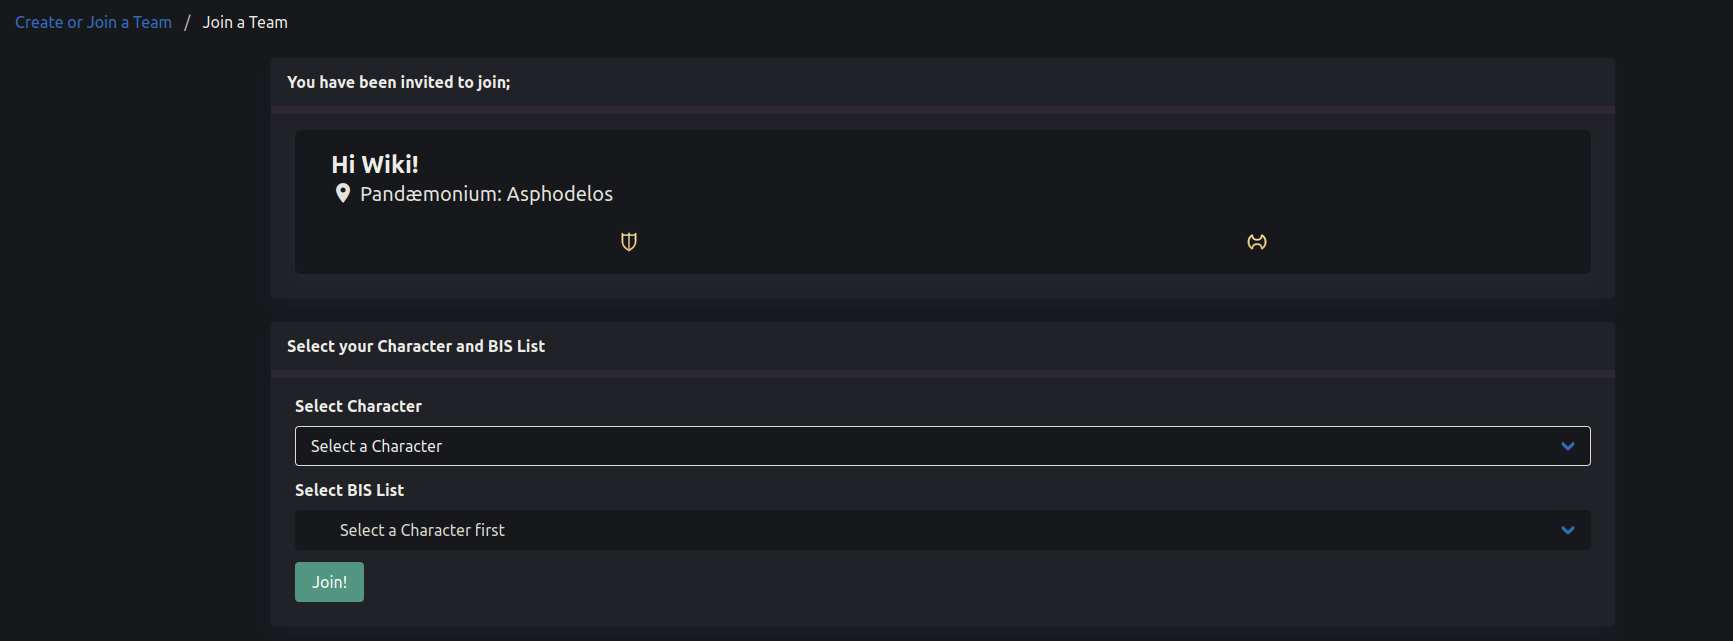
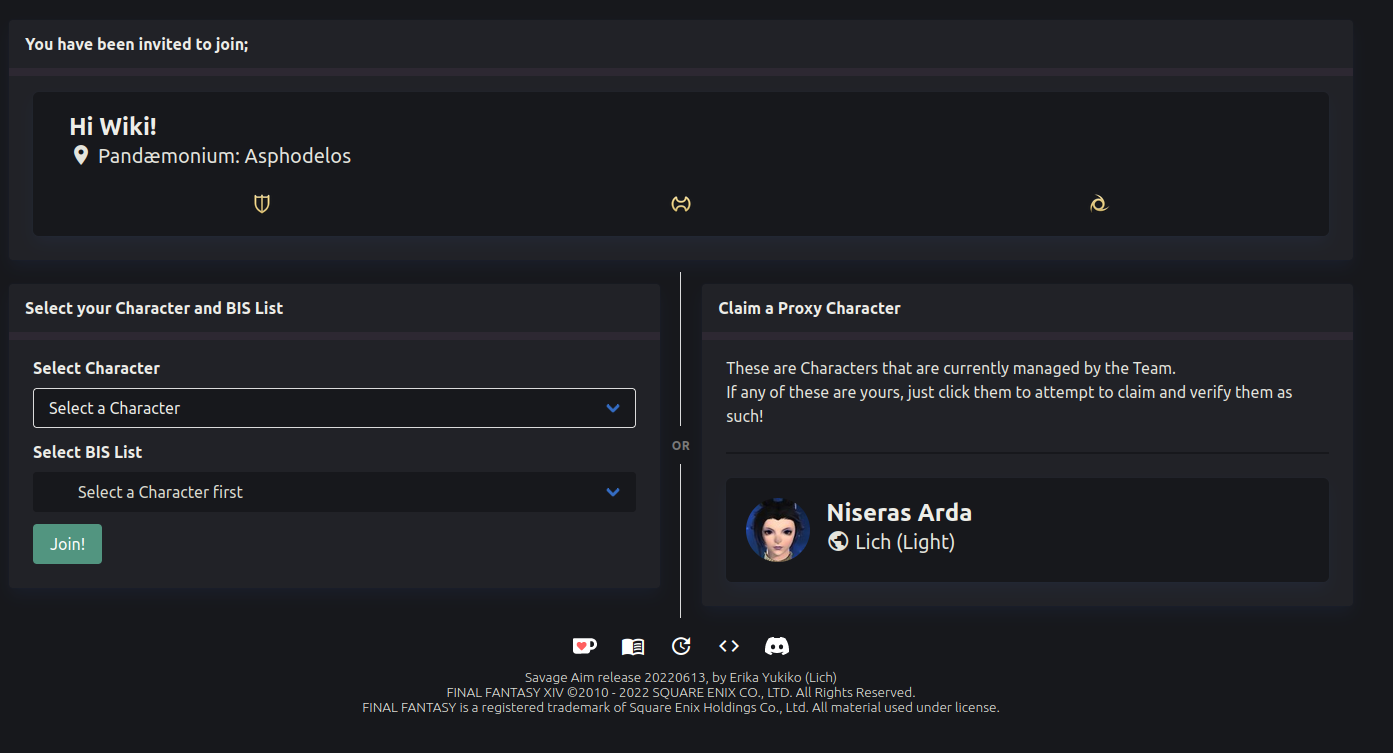
GitBook: [#28] Proxy Characters

diff --git a/teams/proxy-characters.md b/teams/proxy-characters.md
@@ -1,0 +1,61 @@
+---
+description: Characters owned by a Team instead of a User
+---
+
+# Proxy Characters
+
+For the most part, these Characters are equivalent to the Characters made / managed by regular Users of the site. However, these are instead managed by the Team Leader, which allows Leaders to have all of their Members represented without requiring everyone to sign up to Savage Aim.
+
+## Adding Proxy Characters
+
+A Team Leader when viewing the Team Details page will see the following image, with a green "Add Proxy Character" button.
+
+![](<../.gitbook/assets/image (5).png>)
+
+Clicking on this button will take them to a page that looks like this;
+
+![](<../.gitbook/assets/image (24).png>)
+
+To begin to add a Proxy Character, first you must obtain the Lodestone URL for the Character, similar to when adding a new Character to your own account. When the URL has been added and imported, a BIS List form will display underneath and the form will change appearance, like so;
+
+![](<../.gitbook/assets/image (12).png>)
+
+The BIS List form is almost the exact same as the normal one available to Characters, with some minor changes. Proxy BIS Lists cannot be given names, and all buttons related to Syncing have been removed.
+
+To change the Character, you can click the red "Reset" button which will change the box back into the form.
+
+To save the Proxy Character, click the green "Create" button under the Character when you've filled in all this BIS Details.
+
+## Updating Proxy Characters
+
+![](<../.gitbook/assets/image (17).png>)
+
+When added to the Team, Proxy Characters will have a red AFK chair next to their names in desktop versions of the Team Details page. For the Team Leader, there will also be an "Edit Proxy" option in their "Actions" dropdown, which will take them to the same page as shown above, only the ability to reset the Character is no longer present.
+
+To remove a Proxy Character from the Team, simply kick them.&#x20;
+
+## Verifying and Claiming Proxy Characters
+
+If, at a later point in time, the owner of a Proxy Character signs up to the website, they will still be able to claim and verify the Character as their own.&#x20;
+
+Whenever a Proxy Character is claimed, the Team Leader will receive a Notification informing them that it has occurred.
+
+### Importing and Verifying like normal
+
+If a User goes through the process outlined in [importing-characters.md](../characters/importing-characters.md "mention") to add and verify a Character that they own, then all proxies of that Character will be merged into the new verified version of the Character.
+
+The User will immediately have access to any Teams the Character was proxied in, and will have all BIS Lists that any Teams were maintaining for them.&#x20;
+
+{% hint style="info" %}
+Each BIS List will be given the name of the Team that created it when merged into the account, so even if there are multiple lists with the same Job, it will be obvious which one is which.
+{% endhint %}
+
+### Claiming Characters via Team Join
+
+![](<../.gitbook/assets/image (8).png>)
+
+A slight alternative to streamline the process a little is the option to attempt a claim via the [join-a-team.md](join-a-team.md "mention") pages.
+
+Clicking on one of the Proxy Character boxes on the right will take you to a copy of the Character for you to verify. When a Character is verified, it will merge in all Proxy versions, which means you will join the specified Team as well!
+
+This means new Users to the site can gain control of their Character in a slightly easier way than having to handle it from outside the Team pages.

diff --git a/teams/team-details.md b/teams/team-details.md
@@ -18,6 +18,8 @@ At the top of the page are blue buttons, which link to [loot-tracker.md](loot-tr
 Please note that the settings link will only appear if you are the current Team Leader.
 {% endhint %}
 
+Just above the Team Cards is a button to allow you to add [proxy-characters.md](proxy-characters.md "mention")to the Team.
+
 ## Character Cards
 
 Each Character has a card with all of their details. In this section, all of the card's components will be broken down and explained.
@@ -30,11 +32,15 @@ The Characters are sorted by their Jobs, in the same order as FFXIV uses to list
 
 ![](<../.gitbook/assets/image (16) (1) (1).png>)
 
+![](<../.gitbook/assets/image (10).png>)
+
 The heading of the cards gives us a lot of information. On mobile a lot of the extraneous info is stripped out to maintain clarity however.
 
-#### Team Leader / Member Icons
+#### Team Leader / Member / Proxy Icons
 
 On the far left side of the header, you can see icons taken from XIV. The P with an L beneath it indicates the Team Leader, and all other Team Members will just have the P icon with no L.
+
+Proxy Characters are instead represented by the AFK red chair icon.
 
 #### Character Name & World / Alias
 
@@ -98,7 +104,7 @@ This option appears only on the card of your own Characters. It will take you to
 
 #### Leave Team / Kick from Team
 
-![](<../.gitbook/assets/image (17).png>)![](<../.gitbook/assets/image (13) (1).png>)
+![](<../.gitbook/assets/image (17) (2).png>)![](<../.gitbook/assets/image (13) (1).png>)
 
 Any Character has the option to leave a Team, and the Leader of the Team has the option to kick any other Member from it. Both of these will lead to a confirmation modal and, if confirmed, will notify the appropriate Users.
 

diff --git a/characters/character-details.md b/characters/character-details.md
@@ -16,7 +16,7 @@ At the bottom is a button to request the deletion of the Character.
 
 ### Deletion
 
-![](<../.gitbook/assets/image (8) (1).png>)
+![](<../.gitbook/assets/image (8) (1) (2).png>)
 
 Due to all the information being linked to the Character entry, deletion of Characters provides a detailed prompt like shown.
 
@@ -55,7 +55,7 @@ To edit an existing BIS List, click the "Edit" link at the bottom of the corresp
 
 ### Deletion
 
-![](<../.gitbook/assets/image (18).png>)![](<../.gitbook/assets/image (5).png>)
+![](<../.gitbook/assets/image (18).png>)![](<../.gitbook/assets/image (5) (2).png>)
 
 Deleting a BIS List will permanently remove it from the Character. To Delete a BIS List simply click the "Delete" button below the card. Clicking this button will cause a popup like the above images to appear.
 
@@ -81,7 +81,7 @@ On mobile, only the name of the Team and its Tier are displayed.
 
 ## Settings
 
-![](<../.gitbook/assets/image (24).png>)
+![](<../.gitbook/assets/image (24) (2).png>)
 
 Characters now have aliases, which is a name you can specify yourself to refer to the Character separately. The settings tab allows you to change your aliases.
 

diff --git a/notifications.md b/notifications.md
@@ -73,6 +73,18 @@ Whenever a Character leaves a Team that you Lead, you will receive a Notificatio
 
 Clicking a Notification of this type will take you to the Team's page.
 
+### team\_proxy\_claim
+
+Whenever a Proxy Character is claimed by a user, you will receive a Notification to inform you.
+
+Clicking a Notification of this type will take you to the Team's page.
+
+### team\_rename
+
+Whenever a Team you are in is renamed, you will receive a Notification to inform you.
+
+Clicking a Notification of this type will take you to the Team's page.
+
 ### verify\_fail
 
 If the verification process fails for one of your Characters, you will receive this Notification with information on why it failed.

diff --git a/teams/join-a-team.md b/teams/join-a-team.md
@@ -26,7 +26,7 @@ Insert the code you were given in the box below, and click the "Join" button. If
 
 Once you have arrived on a page like this, either by following the code step above or by following your given **invite link**, you will be able to join the Team.
 
-![](<../.gitbook/assets/image (8).png>)
+![](<../.gitbook/assets/image (8) (1).png>)
 
 The box above shows the current details of the Team you are joining. You can see the name and tier and, if you're on a large screen device, you can also see the icons of the Jobs that the Characters already in the Team are playing. The names of the Characters on each Job are available by hovering over them.
 

diff --git a/characters/importing-characters.md b/characters/importing-characters.md
@@ -46,6 +46,6 @@ Then click Confirm, and on the next page, click Confirm again. Once your Charact
 
 After a few seconds, refresh the page and if the verification was successful you should see the amber message has been replaced with a page that looks like this;
 
-![](<../.gitbook/assets/image (12).png>)
+![](<../.gitbook/assets/image (12) (2).png>)
 
 For a full breakdown of what this page can display, check the [character-details.md](character-details.md "mention") page!

diff --git a/SUMMARY.md b/SUMMARY.md
@@ -15,6 +15,7 @@
 * [Create A Team](teams/create-a-team.md)
 * [Join A Team](teams/join-a-team.md)
 * [Team Details](teams/team-details.md)
+* [Proxy Characters](teams/proxy-characters.md)
 * [Loot Manager](teams/loot-tracker.md)
 * [Team Settings](teams/team-settings.md)
 
